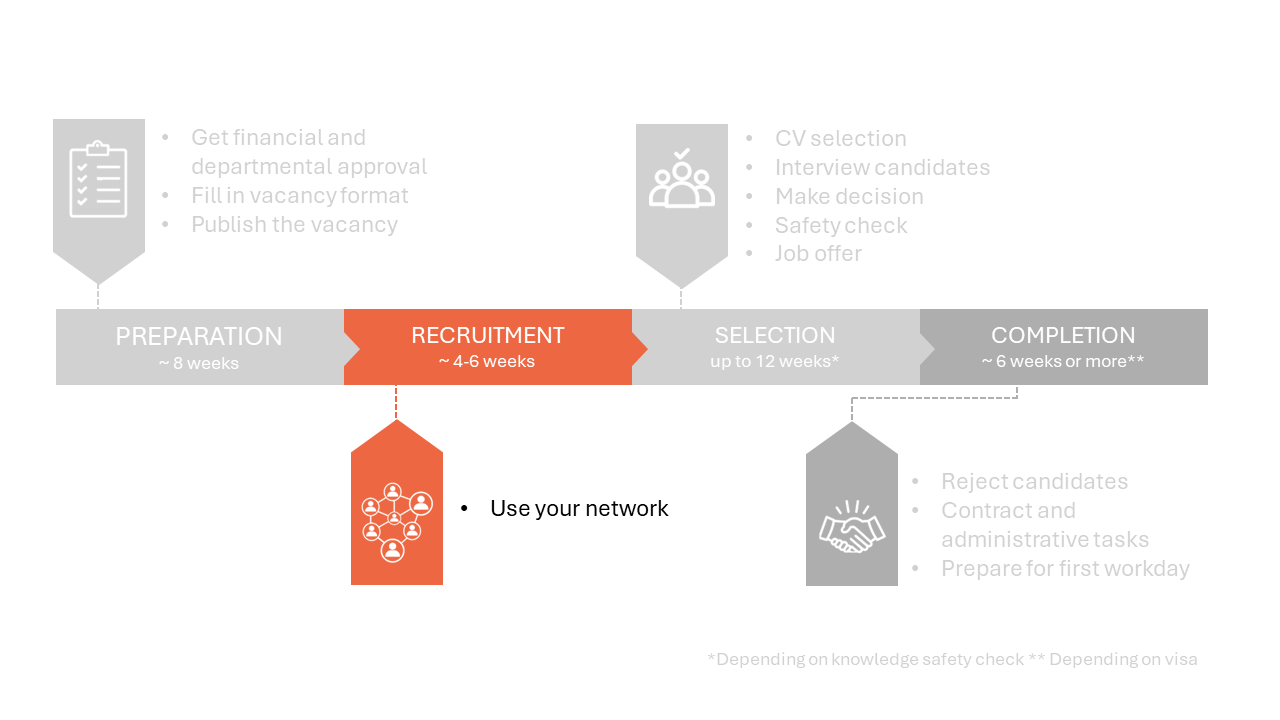
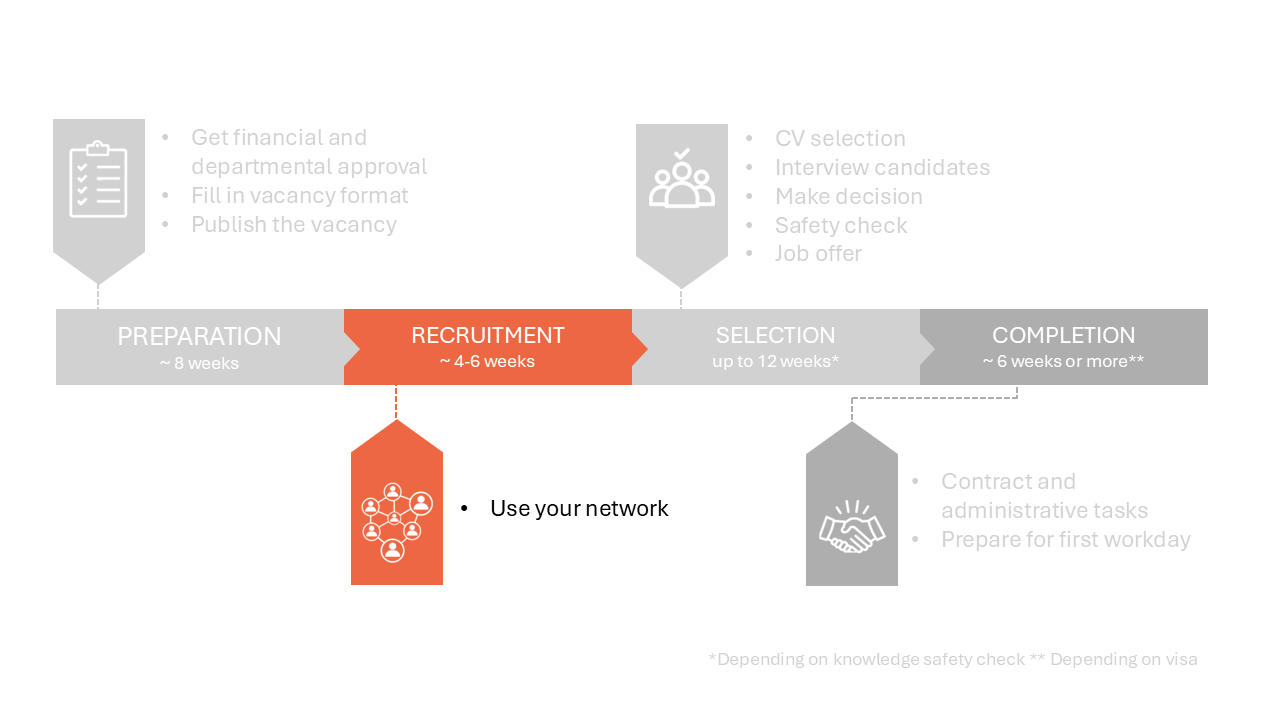
Hiring improvements by recruitment, part 1

diff --git a/book/some_content/HR/Hiring/PhDPostDocs/3SelectionPhase.md b/book/some_content/HR/Hiring/PhDPostDocs/3SelectionPhase.md
@@ -7,7 +7,7 @@
 
 The key stages of the selection process are as follows:
 
-1. **The CV review in Talentlink.** During this stage, candidates who do not meet the must-have qualifications are rejected. For the remaining candidates, you provide feedback and comments. It is advisable to discuss your evaluations and considerations with the selection committee.
+1. **The CV review in the recruitment system.** During this stage, candidates who do not meet the must-have qualifications are rejected. For the remaining candidates, you provide feedback and comments. It is advisable to discuss your evaluations and considerations with the selection committee. Please note: we aim to inform candidates about their application (rejection or invitation) within 2 weeks of the application deadline. Please finish the cv-review within those 2 weeks. The Management Assistants will then reject the candidates via the recruitment system and they can help you with planning the interviews.
 
 
 2. **Screening Interviews:** Conducting brief phone or video interviews can serve as a useful preliminary step before proceeding to formal job interviews.
@@ -31,10 +31,11 @@ Be aware of the **knowledge safety check**! Candidates from or with connections 
 
 
 Some important notes: 
-* The selection process is done using **Talentlink**. Instructions can be found in a [series of videos](https://www.youtube.com/watch?v=qbWrpIaE6Ac&list=PLvaU1SY38TUVKbhgaSeaaKQhWeHsRUDiZ&index=1)
-and in [quick reference charts](https://intranet.tudelft.nl/en/group/guest/-/recruitmentsysteem). Use this system as much as possible and do not store CVs or send CVs by mail. 
+* The selection process is done using **MyCareer**. Instructions can be found [on this intranet page](https://intranet.tudelft.nl/-/recruitment-system?p_l_back_url=%2Fsearch%3Fq%3Drecruitment). Use this system as much as possible and do not store CVs or send CVs by mail. 
 
-* Contact the talent acquisition specialist or the HR advisor if no promising candidates have applied. 
+* For a smooth selection process, it helps to plan the CV review and some potential interview moments soon in the agendas of the committee members.
+
+* Contact the talent acquisition specialist (A.Fishman@tudelft.nl) or the HR advisor (m.scheers-vanderhorst@tudelft.nl) if no promising candidates have applied. 
 
 * Regarding the selection committee: the selection is done using the four-eye principle. This requires at least one other person to participate in the selection, ensuring that decisions are impartial and free from bias. It is recommended to include a senior staff member as well as a neutral party who has no vested interest in the hiring decision.
 
@@ -50,6 +51,44 @@ and in [quick reference charts](https://intranet.tudelft.nl/en/group/guest/-/rec
 
 
 * Be aware that the process may take longer depending on the nationality of the candidate. The knowledge safety check usually takes 2 weeks and in extreme cases 10 weeks. Acquiring visa usually takes ~4 weeks for EU citizens and 12 weeks for non-EU citizens. 
+
+
+
+**Rejecting candidates after interviews**
+
+Once your preferred candidate has accepted the job offer, it is important to notify the remaining candidates. Candidates who were interviewed should be informed of the decision either by phone or in person. As the vacancy holder, this is your responsibility, and while it may be a challenging task, it is essential that these candidates are treated with respect and professionalism, acknowledging the time and effort they have invested in the application process.
+
+Remember, every interaction with a candidate can influence TU Delft’s reputation as an employer, as well as the reputation of your research department. Careful handling of rejections contributes to maintaining a positive professional image.
+
+**Note:** During the rejection conversation, do not reference the knowledge safety check. The outcome of this check is confidential and should not be shared with candidates. Instead, you can inform them that another candidate was deemed more suitable for the position.
+
+
+```{admonition} Tips for rejection conversations
+:class: tip, dropdown
+
+When delivering bad news, please ensure you:  
+
+* Do not postpone it. Get it done before the weekend whenever possible. The candidate will be expecting a follow-up and will feel disappointed if they haven’t heard from you. These candidates will share a bad experience with their peers. This could harm your reputation as an employer within the highly specific network you both operate in.  
+
+* Be as clear as possible. A clear selection strategy will help you to explain why the candidate was not selected for the position. Vague and general feedback like “the other candidate performed better in the interview” or “the other candidate has more relevant experience” can stir strong negative emotions. 
+
+* Stick to sharing actual observations and refrain from definitive conclusions about a candidate’s abilities. You don’t know a candidate’s true potential. Nevertheless, you do have to make a decision based on the impressions collected during the selection process. Don’t say “Your presentation skills are insufficient”. Do say: “During your presentation to the group we saw you struggling to answer questions. In addition, 4 out of the 5 people in the audience, couldn’t reproduce the core of your message.” 
+
+More guidelines on delivering bad news in a positive way:  
+
+1. Start with the announcement: “Hello Tristan, I am calling about your application to the position of PhD candidate. Is this a good time to talk?”  
+
+2. Share the message. Be clear, factual and concise. This will reduce the likelihood of a candidate experiencing anger. For example: “Unfortunately, I have bad news. We have decided not to make you an offer for this position. The main reason is…..”  
+
+3. Pause and listen. You may also ask the candidate “How does this makes you feel?” Don’t guess how the candidate feels. When an emotion is shared or visible, acknowledge it. “I can hear that you are disappointed/upset and I understand”.    
+
+4. If a candidate feels sad or disappointed, this is a healthy part of the process of letting expectations go. Allow space for the candidate to regain their balance. Don’t disempower the candidate by feeling sorry for them.   
+
+5. If a candidate feels angry, don’t take anything personally. Stay calm. Anger can be beneficial for the candidate, too. Don’t try to explain your reasoning during the peak of an emotion. Let the candidate know that you understand their reaction and allow them time to process. If a candidate is very upset, guard your boundaries. In this case, you can kindly end the conversation by stating that you will be in touch again the next day to answer any remaining questions. Always follow up on your promise.  
+
+6. Once the peak of the emotion has passed, again offer your fact-based explanation and answer any questions. Don’t alter your initial explanation. Acknowledge any emotions. Sometimes, you will have to repeat your answer several times. 
+```
+
 
 
 ## 3.2 Job offer 
@@ -71,4 +110,3 @@ First, you contact the candidate to share the positive news. Before doing so, en
 
 Afterwards, contact the management assistant to prepare the formal job offer. The management assistant will draft the offer based on the details you provide, including the contract duration, start date, salary, working hours, English proficiency (ETV), and relevant contact information. The job offer will be sent to the candidate, with you in the cc.
 
-Finally, remember to update Talentlink. Once the job offer is accepted and all other candidates are rejected, inform the management assistant to close the vacancy in Talentlink. 

diff --git a/book/some_content/HR/Hiring/PhDPostDocs/4CompletionPhase.md b/book/some_content/HR/Hiring/PhDPostDocs/4CompletionPhase.md
@@ -2,44 +2,8 @@
 
 ![Completion Phase](../PhDPostDocs/Appendices/4Completion.PNG)
 
-## 4.1 Rejecting candidates 
 
-Once your preferred candidate has accepted the job offer, it is important to notify the remaining candidates. Candidates who were interviewed should be informed of the decision either by phone or in person. As the vacancy holder, this is your responsibility, and while it may be a challenging task, it is essential that these candidates are treated with respect and professionalism, acknowledging the time and effort they have invested in the application process.
-
-Remember, every interaction with a candidate can influence TU Delft’s reputation as an employer, as well as the reputation of your research department. Careful handling of rejections contributes to maintaining a positive professional image.
-
-**Note:** During the rejection conversation, do not reference the knowledge safety check. The outcome of this check is confidential and should not be shared with candidates. Instead, you can inform them that another candidate was deemed more suitable for the position.
-
-
-```{admonition} Tips for rejection conversations
-:class: tip, dropdown
-
-When delivering bad news, please ensure you:  
-
-* Do not postpone it. Get it done before the weekend whenever possible. The candidate will be expecting a follow-up and will feel disappointed if they haven’t heard from you. These candidates will share a bad experience with their peers. This could harm your reputation as an employer within the highly specific network you both operate in.  
-
-* Be as clear as possible. A clear selection strategy will help you to explain why the candidate was not selected for the position. Vague and general feedback like “the other candidate performed better in the interview” or “the other candidate has more relevant experience” can stir strong negative emotions. 
-
-* Stick to sharing actual observations and refrain from definitive conclusions about a candidate’s abilities. You don’t know a candidate’s true potential. Nevertheless, you do have to make a decision based on the impressions collected during the selection process. Don’t say “Your presentation skills are insufficient”. Do say: “During your presentation to the group we saw you struggling to answer questions. In addition, 4 out of the 5 people in the audience, couldn’t reproduce the core of your message.” 
-
-More guidelines on delivering bad news in a positive way:  
-
-1. Start with the announcement: “Hello Tristan, I am calling about your application to the position of PhD candidate. Is this a good time to talk?”  
-
-2. Share the message. Be clear, factual and concise. This will reduce the likelihood of a candidate experiencing anger. For example: “Unfortunately, I have bad news. We have decided not to make you an offer for this position. The main reason is…..”  
-
-3. Pause and listen. You may also ask the candidate “How does this makes you feel?” Don’t guess how the candidate feels. When an emotion is shared or visible, acknowledge it. “I can hear that you are disappointed/upset and I understand”.    
-
-4. If a candidate feels sad or disappointed, this is a healthy part of the process of letting expectations go. Allow space for the candidate to regain their balance. Don’t disempower the candidate by feeling sorry for them.   
-
-5. If a candidate feels angry, don’t take anything personally. Stay calm. Anger can be beneficial for the candidate, too. Don’t try to explain your reasoning during the peak of an emotion. Let the candidate know that you understand their reaction and allow them time to process. If a candidate is very upset, guard your boundaries. In this case, you can kindly end the conversation by stating that you will be in touch again the next day to answer any remaining questions. Always follow up on your promise.  
-
-6. Once the peak of the emotion has passed, again offer your fact-based explanation and answer any questions. Don’t alter your initial explanation. Acknowledge any emotions. Sometimes, you will have to repeat your answer several times. 
-```
-
-
-
-## 4.2 Contract and other administrative tasks 
+## 4.1 Contract and other administrative tasks 
 
 In this phase between the job offer and the first workday, the management assistants play a significant role. They will manage the MyHR process, send foreign students information about housing, sign up the candidate for the graduate school (if PhD) and arrange a laptop and workplace. 
 
@@ -91,7 +55,7 @@ The visa are requested by the management assistant. A working permit for EU cand
 
 
 
-## 4.3 First workday
+## 4.2 First workday
 
 The new employee will soon join the team. It is important to consider how you will structure their first day and the initial week. Ensure they receive a warm welcome, including an introduction to key colleagues and a visit to the management assistants.
 

diff --git a/book/some_content/HR/Hiring/PhDPostDocs/1PreparationPhase.md b/book/some_content/HR/Hiring/PhDPostDocs/1PreparationPhase.md
@@ -16,22 +16,24 @@ Once the financial check is complete, you may proceed to the next step
 
 ## 1.2 Fill in vacancy format 
 
-Use the vacancy format for [PhDs](./Appendices/Vacancy%20format%20ENG%20-%20October%202024%20format%20PHD.docx) or [PostDocs](./Appendices/Vacancy%20format%20ENG%20-%20October%202024%20format%20POSTDOC.docx) to gather the required information for the vacancy.
+Use the vacancy format for [PhDs](./Appendices/Vacancy%20format%20ENG%20-%20October%202024%20format%20PHD.docx) or [PostDocs](./Appendices/Vacancy%20format%20ENG%20-%20October%202024%20format%20POSTDOC.docx) to gather the required information for the vacancy. As some have noted, the format does not handle comments well, so you can consider making and shaping the vacancy text in a separate word document first. 
 
 
 Some notes regarding the vacancy format:
 * Standard contract details apply for these positions and are already filled in.
 <!-- * The Talent Acquisition Specialist of the faculty is Avital Fishman. 
 * The cash flow is 1 for direct employees and 2/3 for project employees. -->
-* The vacancy text can be written using the [vacancy writing guide](../PhDPostDocs/Appendices/Guide%20to%20creating%20recruitment%20text%20for%20scientific%20staff%20-%20Jan%202021.pdf) . As some have noted, the format does not handle comments well, so you can consider making and shaping the vacancy text in a separate word document first. Examples of vacancy texts are available for PhD functions 
-[1](../PhDPostDocs/Appendices/ExamplesVacancyTexts/PhD%20Position%20Decentralised%20Machine%20Learning.docx)
+* The vacancy text can be written using the vacancy writing guide. The guide and examples of vacancy texts are available [here](https://sharepoint.tudelft.nl/misc/medewerkersportaal/_layouts/15/start.aspx#/SitePages/HR%20Vacatureteksten.aspx). Please note: a vpn connection is required to access this link from outside the campus.
+<!-- ](../PhDPostDocs/Appendices/Guide%20to%20creating%20recruitment%20text%20for%20scientific%20staff%20-%20Jan%202021.pdf) .  -->
+ <!-- PhD functions 
+[1](../PhDPostDocs/Appendices/ExamplesVacancyTexts/PhD%20Position%20for%20Adaptive%20Nonlinear%20Data%20Assimilation%20in%20Subsurface%20Systems.docx)
 [2](../PhDPostDocs/Appendices/ExamplesVacancyTexts/PhD%20Position%20Modelling%20of%20Regional%20Criminal%20Vulnerability%20and%20Supply%20Chains.docx)
 [3](../PhDPostDocs/Appendices/ExamplesVacancyTexts/PhD%20Position%20Spread%20in%20Networks.docx)
 [4](../PhDPostDocs/Appendices/ExamplesVacancyTexts/PhD%20Positions%20in%20Thermoplastic%20Composites.docx)
 and for Postdoc functions
 [1](../PhDPostDocs/Appendices/ExamplesVacancyTexts/Postdoc%20Damping%20of%20Critical%20Electrical%20Oscillatory%20Phenomena.docx)
 [2](../PhDPostDocs/Appendices/ExamplesVacancyTexts/Postdoc%20Ethical%20Impact%20of%20Technology%20on%20Society.docx)
-[3](../PhDPostDocs/Appendices/ExamplesVacancyTexts/Postdoc%20Partnerschap%20met%20omwonenden%20in%20bouwprocessen.docx)
+[3](../PhDPostDocs/Appendices/ExamplesVacancyTexts/Postdoc%20Partnerschap%20met%20omwonenden%20in%20bouwprocessen.docx) -->
 <!-- source (https://sharepoint.tudelft.nl/misc/medewerkersportaal/_layouts/15/start.aspx#/SitePages/HR%20Vacatureteksten.aspx)  -->
 * Some extra tips on formulating the requirements and using it in the selection strategy can be found in [this document](../PhDPostDocs/Appendices/7%20Tips%20for%20crafting%20a%20Selection%20Strategy.pdf) 
 * The standard time for a vacancy posting to stay active is 4-6 weeks. Contact Dept-Chair-HE@tudelft.nl if you would like to deviate from this.  
@@ -44,11 +46,11 @@ At this stage, it is advisable to establish the selection committee. For PhD and
 
 ## 1.3 Send vacancy format 
 
-As soon as the financial check is done and the vacancy format is completed, you can send the vacancy form to the Department Secretary (E.H.Bakker@tudelft.nl) and the HR advisor (m.scheers-vanderhorst@tudelft.nl)
+As soon as the financial check is done and the vacancy format is completed, you can send the vacancy form to the Department Secretary (E.H.Bakker@tudelft.nl) and the HR advisor (m.scheers-vanderhorst@tudelft.nl). The vacancy format will then be sent to recruitment (Recruitment-CITG@tudelft.nl) and the recruitment assistant will create the vacancy in the recruitmentsystem. You will receive an email to approve the vacancy.
 
-After submitting your vacancy will appear on: 
+After approval your vacancy will appear on: 
 
 - TU Delft’s internal (intranet) vacancy page 
 - TU Delft’s external vacancy page 
-- Academic Transfer 
+- Academic Transfer and Euraxess
 - TU Delft’s LinkedIn job page 

diff --git a/book/some_content/HR/Hiring/PhDPostDocs/0Introduction.md b/book/some_content/HR/Hiring/PhDPostDocs/0Introduction.md
@@ -1,10 +1,5 @@
 # Hiring a PhD or PostDoc
 
-```{admonition} New recruitment system
-:class: warning, dropdown
-
-Please note that the recruitment system Talentlink has just been replaced by MyCareer. An update of the adjusted process is expected in the upcoming weeks. Contact the management assistants or recruitment if you have any questions regarding the new recruitment system.
-```
 
 You have secured the necessary funding to initiate a new (sub)project. The next step is to ensure that the right candidate applies for your vacancy, and that you select the most suitable individual for your project. This webpage outlines the complete recruitment and selection process, designed to make the procedure both efficient and respectful to all participants.
 
